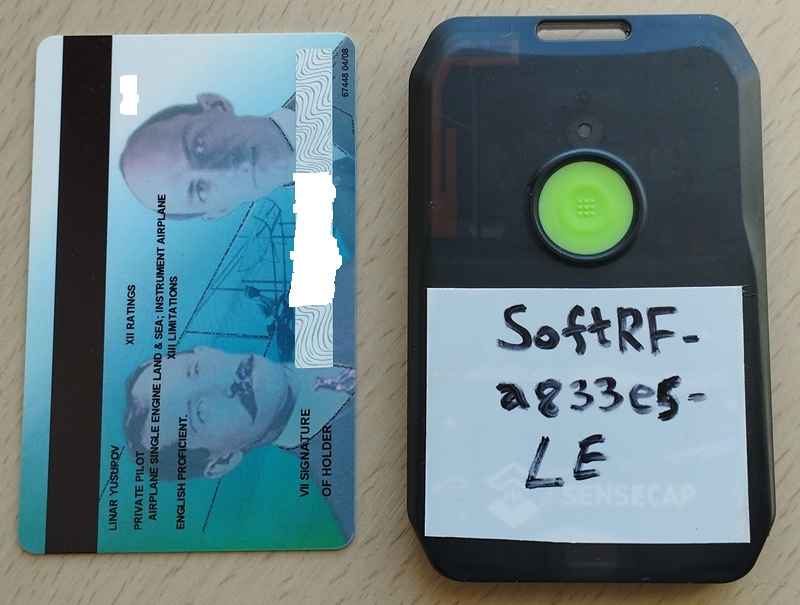
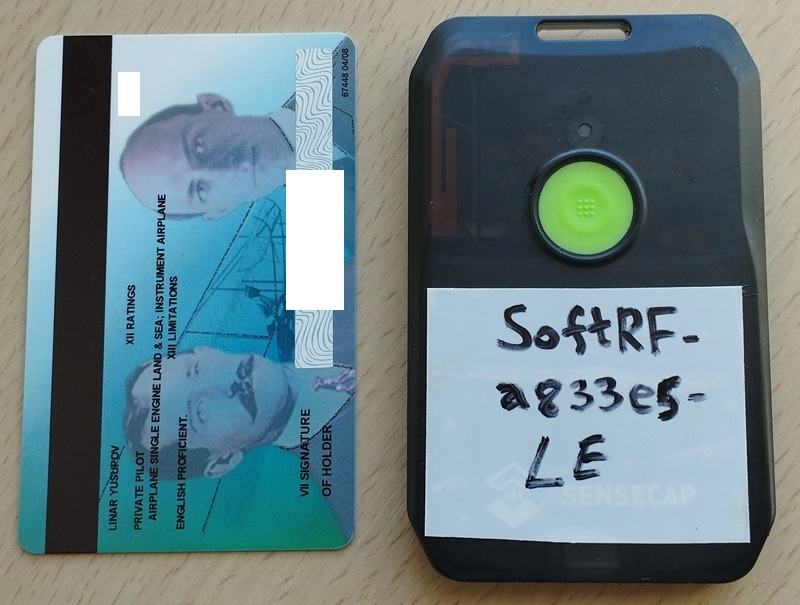
[nRF52] add voice traffic alert feature to Card Mk.II ( I2S audio and speaker )

Changed region(s): [[0.3438, 0.2678, 0.4375, 0.5355], [0.125, 0.119, 0.1875, 0.1785]]

diff --git a/software/firmware/source/SoftRF/src/platform/nRF52.cpp b/software/firmware/source/SoftRF/src/platform/nRF52.cpp
@@ -484,6 +484,10 @@ static void nRF52_msc_flush_cb (void)
 #define WAV_FILE_PREFIX       "/Audio/"
 #define WAV_FILE_SUFFIX       ".wav"
 
+#define VOICE1_SUBDIR         "voice1/"
+#define VOICE2_SUBDIR         "voice2/"
+#define VOICE3_SUBDIR         "voice3/"
+
 #define I2S_DATA_BLOCK_WORDS  8192
 
 /* these are data structures to process wav file */
@@ -1045,8 +1049,7 @@ static void nRF52_setup()
       hw_info.model      = SOFTRF_MODEL_SOLARIS;
       nRF5x_Device_Model = "Solaris Edition";
 
-      if (reset_reason & POWER_RESETREAS_VBUS_Msk ||
-          reset_reason & POWER_RESETREAS_RESETPIN_Msk) {
+      if (reset_reason & POWER_RESETREAS_VBUS_Msk) {
         NRF_POWER->GPREGRET = DFU_MAGIC_SKIP;
 #if !defined(ARDUINO_ARCH_MBED) && !defined(ARDUINO_ARCH_ZEPHYR)
         pinMode(SOC_GPIO_PIN_M6_BUTTON, INPUT_PULLUP_SENSE);
@@ -1062,8 +1065,7 @@ static void nRF52_setup()
       hw_info.model      = SOFTRF_MODEL_STYLUS;
       nRF5x_Device_Model = "Stylus Edition";
 
-      if (reset_reason & POWER_RESETREAS_VBUS_Msk ||
-          reset_reason & POWER_RESETREAS_RESETPIN_Msk) {
+      if (reset_reason & POWER_RESETREAS_VBUS_Msk) {
         NRF_POWER->GPREGRET = DFU_MAGIC_SKIP;
 #if !defined(ARDUINO_ARCH_MBED) && !defined(ARDUINO_ARCH_ZEPHYR)
         pinMode(SOC_GPIO_PIN_TIP_PAD, INPUT_PULLUP_SENSE); /* TBD */
@@ -1081,8 +1083,7 @@ static void nRF52_setup()
       hw_info.model      = SOFTRF_MODEL_CARD_MK2;
       nRF5x_Device_Model = "Card Edition Mk2";
 
-      if (reset_reason & POWER_RESETREAS_VBUS_Msk ||
-          reset_reason & POWER_RESETREAS_RESETPIN_Msk) {
+      if (reset_reason & POWER_RESETREAS_VBUS_Msk) {
         NRF_POWER->GPREGRET = DFU_MAGIC_SKIP;
 #if !defined(ARDUINO_ARCH_MBED) && !defined(ARDUINO_ARCH_ZEPHYR)
         pinMode(SOC_GPIO_PIN_TEC_BUTTON, INPUT_PULLUP_SENSE); /* TBD */
@@ -1993,10 +1994,13 @@ static void nRF52_setup()
           bhi_accel.enable(sample_rate, report_latency_ms);
           // Enable gyroscope
           // bhi_gyro.enable(sample_rate, report_latency_ms);
-
+#else
+        } else if (Wire.beginTransmission(BHI260AP_ADDRESS_L),
+                   Wire.endTransmission() == 0) {
+#endif /* EXCLUDE_BHI260 */
           hw_info.imu = IMU_BHI260AP;
           IMU_Time_Marker = millis();
-#endif /* EXCLUDE_BHI260 */
+
         } else {
           bool ad0 = (ICM20948_ADDRESS == 0x69) ? true : false;
 
@@ -2373,7 +2377,6 @@ static void nRF52_post_init()
     Serial.println();
     Serial.flush();
 
-#if 0
     if (nRF52_board == NRF52_LILYGO_TECHO_CARD) {
 #if defined(USE_EXT_I2S_DAC)
       char filename[MAX_FILENAME_LEN];
@@ -2385,7 +2388,6 @@ static void nRF52_post_init()
       }
 #endif /* USE_EXT_I2S_DAC */
     }
-#endif
 
 #if defined(ENABLE_NFC) && defined(EXCLUDE_BLUETOOTH)
     if ((NRF_UICR->NFCPINS & UICR_NFCPINS_PROTECT_Msk) == (UICR_NFCPINS_PROTECT_NFC << UICR_NFCPINS_PROTECT_Pos)) {
@@ -3751,7 +3753,11 @@ static void nRF52_EEPROM_extension(int cmd)
       ui->adb          = DB_OGN;
       ui->idpref       = ID_TYPE;
       ui->vmode        = VIEW_MODE_STATUS;
-      ui->voice        = VOICE_OFF;
+      if (nRF52_board == NRF52_LILYGO_TECHO_CARD) {
+        ui->voice      = VOICE_1;
+      } else {
+        ui->voice      = VOICE_OFF;
+      }
       ui->aghost       = ANTI_GHOSTING_OFF;
       ui->filter       = TRAFFIC_FILTER_OFF;
       ui->power_save   = 0;
@@ -5180,7 +5186,41 @@ static void nRF52_Button_fini()
 
 static void nRF52_TTS(char *message)
 {
+#if defined(USE_EXT_I2S_DAC)
+  char filename[MAX_FILENAME_LEN];
 
+  if (nRF52_board == NRF52_LILYGO_TECHO_CARD && ui->voice != VOICE_OFF) {
+
+    if (!FATFS_is_mounted)
+      return;
+
+    char *word = strtok (message, " ");
+
+    while (word != NULL)
+    {
+        strcpy(filename, WAV_FILE_PREFIX);
+        strcat(filename,  ui->voice == VOICE_1 ? VOICE1_SUBDIR :
+                         (ui->voice == VOICE_2 ? VOICE2_SUBDIR :
+                         (ui->voice == VOICE_3 ? VOICE3_SUBDIR :
+                          "" )));
+        strcat(filename, word);
+        strcat(filename, WAV_FILE_SUFFIX);
+        if (fatfs.exists(filename)) {
+          play_file(filename);
+
+#if !defined(ARDUINO_ARCH_MBED) && !defined(ARDUINO_ARCH_ZEPHYR)
+          // Reload the watchdog
+          if (nrf_wdt_started(NRF_WDT)) {
+            Watchdog.reset();
+          }
+#endif /* ARDUINO_ARCH_MBED */
+        }
+        word = strtok (NULL, " ");
+
+        yield();
+    }
+  }
+#endif /* USE_EXT_I2S_DAC */
 }
 
 #if defined(USE_WEBUSB_SERIAL) && !defined(USE_WEBUSB_SETTINGS)

diff --git a/software/firmware/source/SoftRF/src/driver/OLED.cpp b/software/firmware/source/SoftRF/src/driver/OLED.cpp
@@ -1068,10 +1068,11 @@ void OLED_info1()
         // ndx = ndx < 0 ? 0 : ndx;
         int ndx = 0;
         u8x8->clear();
-        u8x8->drawString  (4, 4, "VERSION");
-        u8x8->draw2x2Glyph(5, 6, toupper(buf[ndx++]));
-        u8x8->draw2x2Glyph(7, 6, toupper(buf[ndx++]));
-        u8x8->draw2x2Glyph(9, 6, toupper(buf[ndx]));
+        u8x8->drawString  (  4, 4, "VERSION");
+        u8x8->draw2x2Glyph(  4, 6, toupper(buf[ndx++]));
+        u8x8->draw2x2Glyph(  6, 6, toupper(buf[ndx++]));
+        u8x8->draw2x2Glyph(  8, 6, toupper(buf[ndx++]));
+        u8x8->draw2x2Glyph( 10, 6, toupper(buf[ndx]));
 
         delay(2000);
 

diff --git a/software/firmware/source/libraries/ADC/battery.cpp b/software/firmware/source/libraries/ADC/battery.cpp
@@ -176,7 +176,8 @@ uint16_t adc2_read_voltage() {
 float getTempForNTC(int pin)
 {
   float voltage    = analogReadMilliVolts(pin) / 1000.0;
-  float resistance = SERIES_RESISTOR * ((3.3 / voltage) - 1); // Calculate the resistance of NTC
+  // Calculate the resistance of NTC
+  float resistance = SERIES_RESISTOR * ((3.3 / voltage) - 1);
 
   // Calculate temperature using the Steinhart-Hart equation
   float temperature = (1.0 / (log(resistance / ROOM_TEMP_RESISTANCE) / B_COEFFICIENT + 1.0 / ROOM_TEMP)) - 273.15;

diff --git a/software/firmware/source/SoftRF/src/platform/nRF52.h b/software/firmware/source/SoftRF/src/platform/nRF52.h
@@ -333,7 +333,7 @@ struct rst_info {
 
 #define USE_EPAPER                 //  +    kb
 #define EPD_ASPECT_RATIO_1C1
-//#define EPD_ASPECT_RATIO_2C1
+#define EPD_ASPECT_RATIO_2C1
 #define USE_EPD_TASK
 #define USE_TIME_SLOTS
 
@@ -385,7 +385,7 @@ struct rst_info {
 #endif /* ARDUINO_ARCH_ZEPHYR */
 #endif /* ARDUINO_ARCH_MBED */
 
-//#define EXCLUDE_BHI260           //  -117 kb
+#define EXCLUDE_BHI260             //  -117 kb
 #define USE_BHI260_RAM_FW
 
 #define EXCLUDE_WIP
